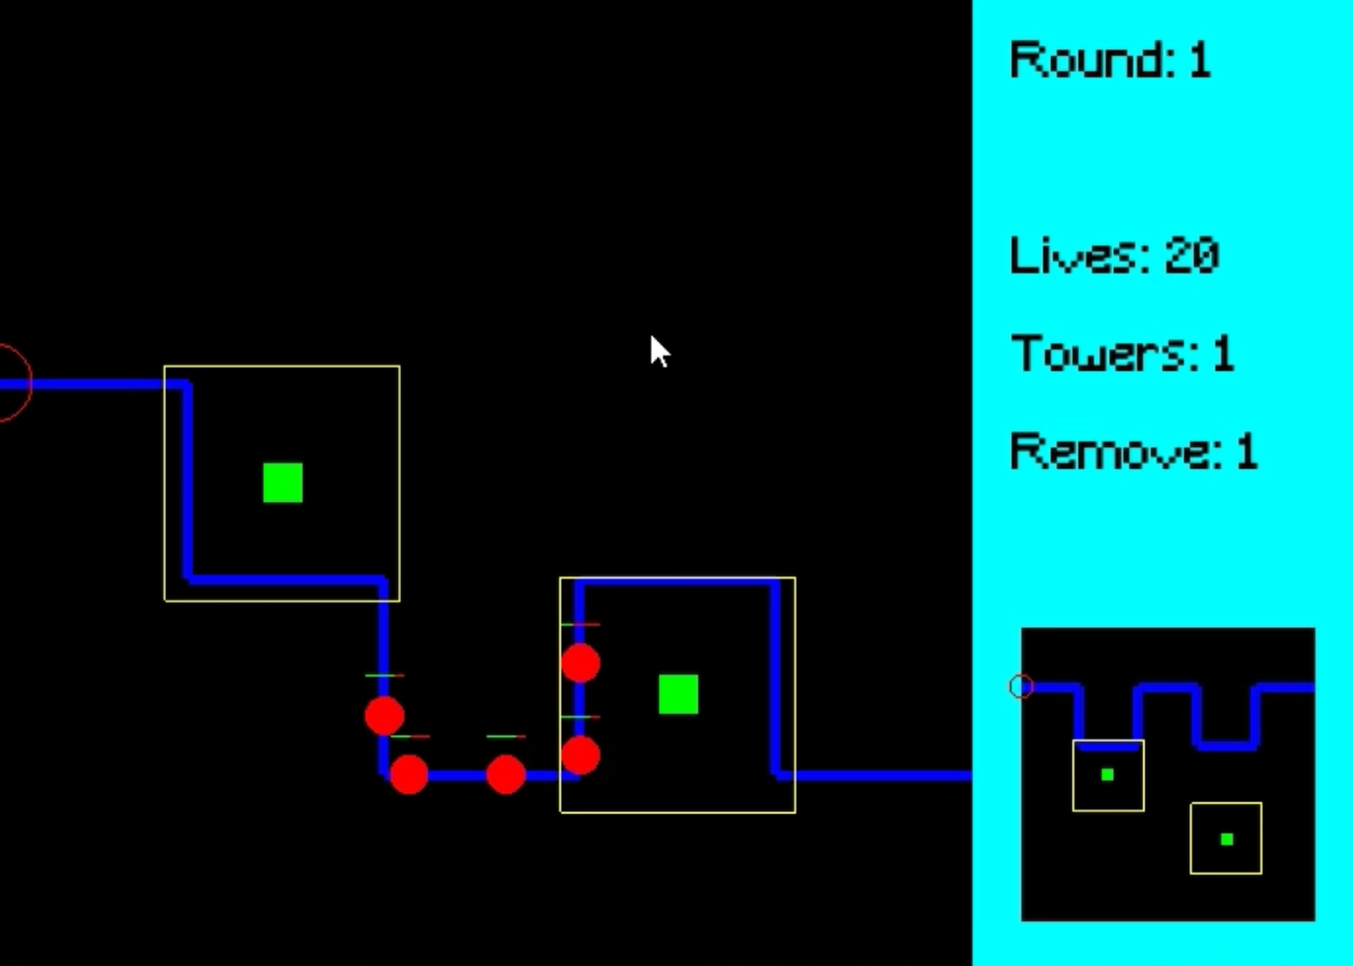
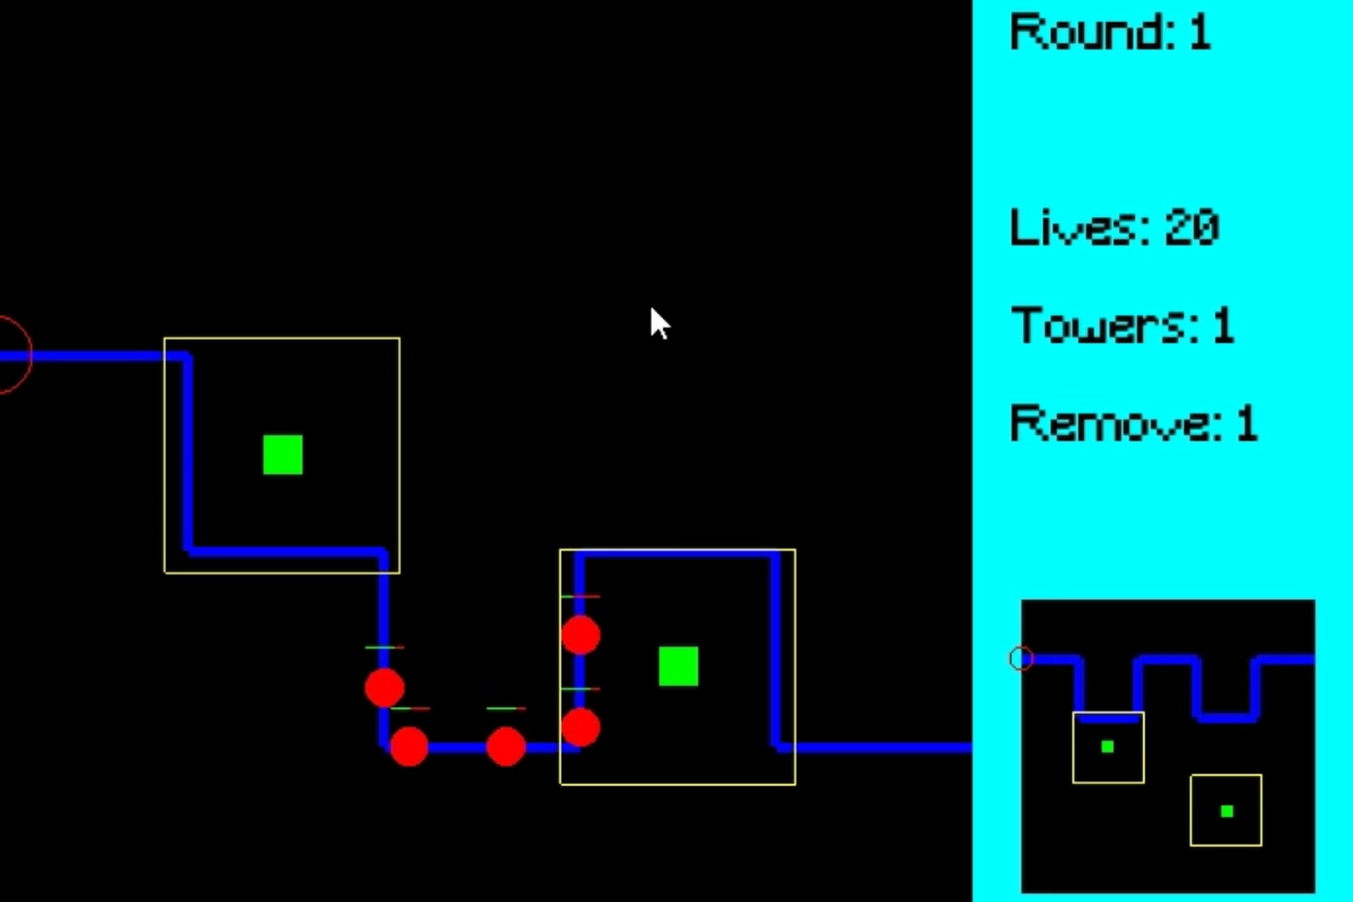
Fixed video autoplay

diff --git a/index.html b/index.html
@@ -73,7 +73,7 @@
               </div>
             </div>
             <div class="work__image-box">
-			  <video alt="Beep & Bumper" width="750" height="500" controls autoplay>
+			  <video alt="Beep & Bumper" width="750" height="500" autoplay muted loop playsinline>
 				<source src="./images/BeepAndBumperTrailer.mp4" type="video/mp4">
 				Browser does not support video
 			  </video>
@@ -103,7 +103,7 @@
             <div class="work__text">
               <h3>The Offspring</h3>
               <p>
-                Escape the clutches of the alien mother of whiches child accidentally imprinted on you. Made in Unreal.
+                Escape the clutches of the alien mother which child accidentally imprinted on you. Active all terminals and run for the exit. Made in Unreal.
               </p>
           
               <div class="work__links">
@@ -149,7 +149,7 @@
             <div class="work__text">
               <h3>Geometric Algebra Maze</h3>
               <p>
-			    Try to find your way aroudn the reflection maze. Made in Flytracer using different geometric algebra formulas.
+			    Try to find your way around the reflection maze. Made in Flytracer using different geometric algebra formulas.
               </p>
           
               <div class="work__links">
@@ -171,9 +171,9 @@
 		  
 		  <div class="work__box">
             <div class="work__text">
-              <h3>Procedural Tower Defense</h3>
+              <h3>Tower Defense</h3>
               <p>
-                A small tower defense game that uses procedural path generation.
+                A small tower defense game that has path generation.
               </p>
           
               <div class="work__links">